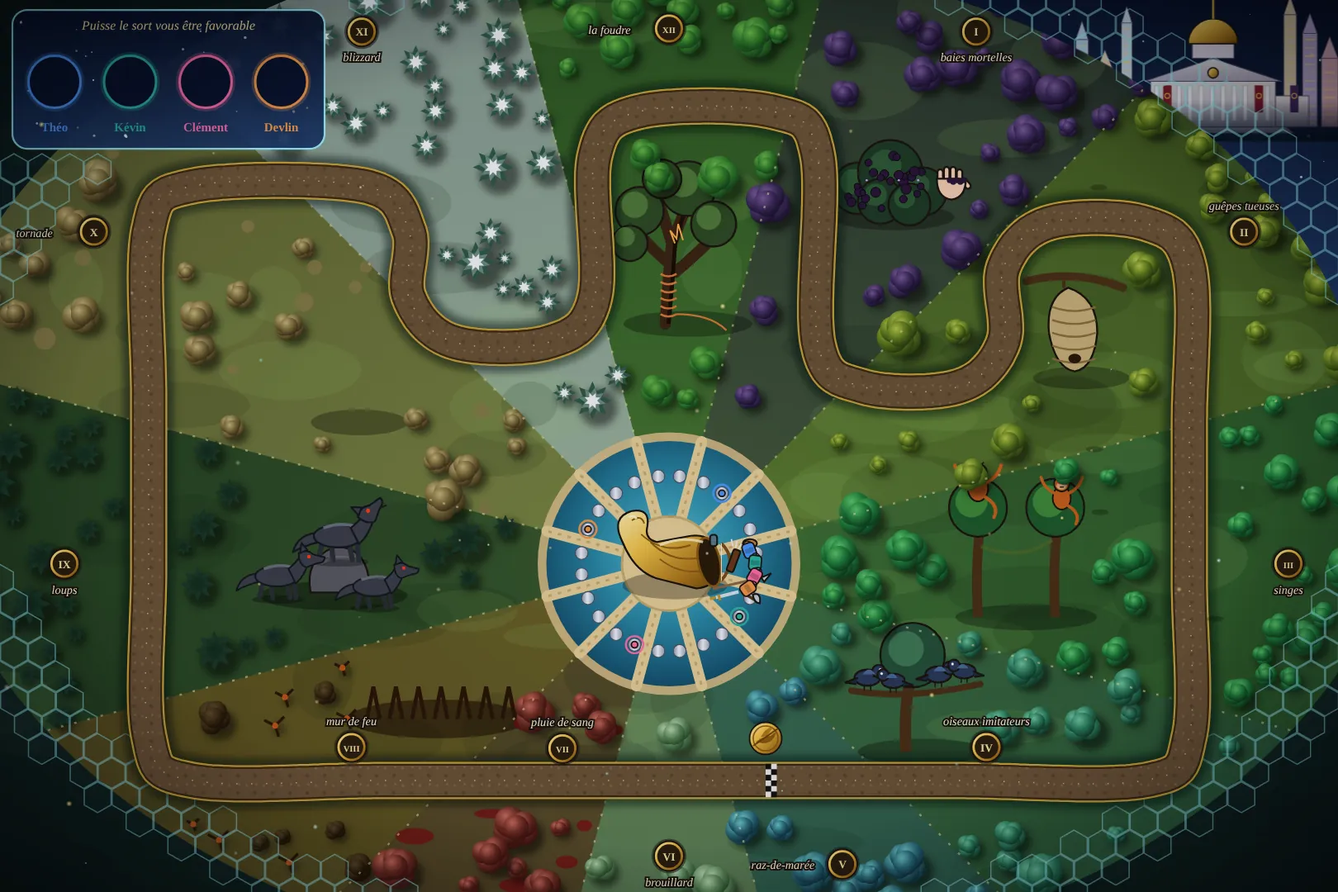
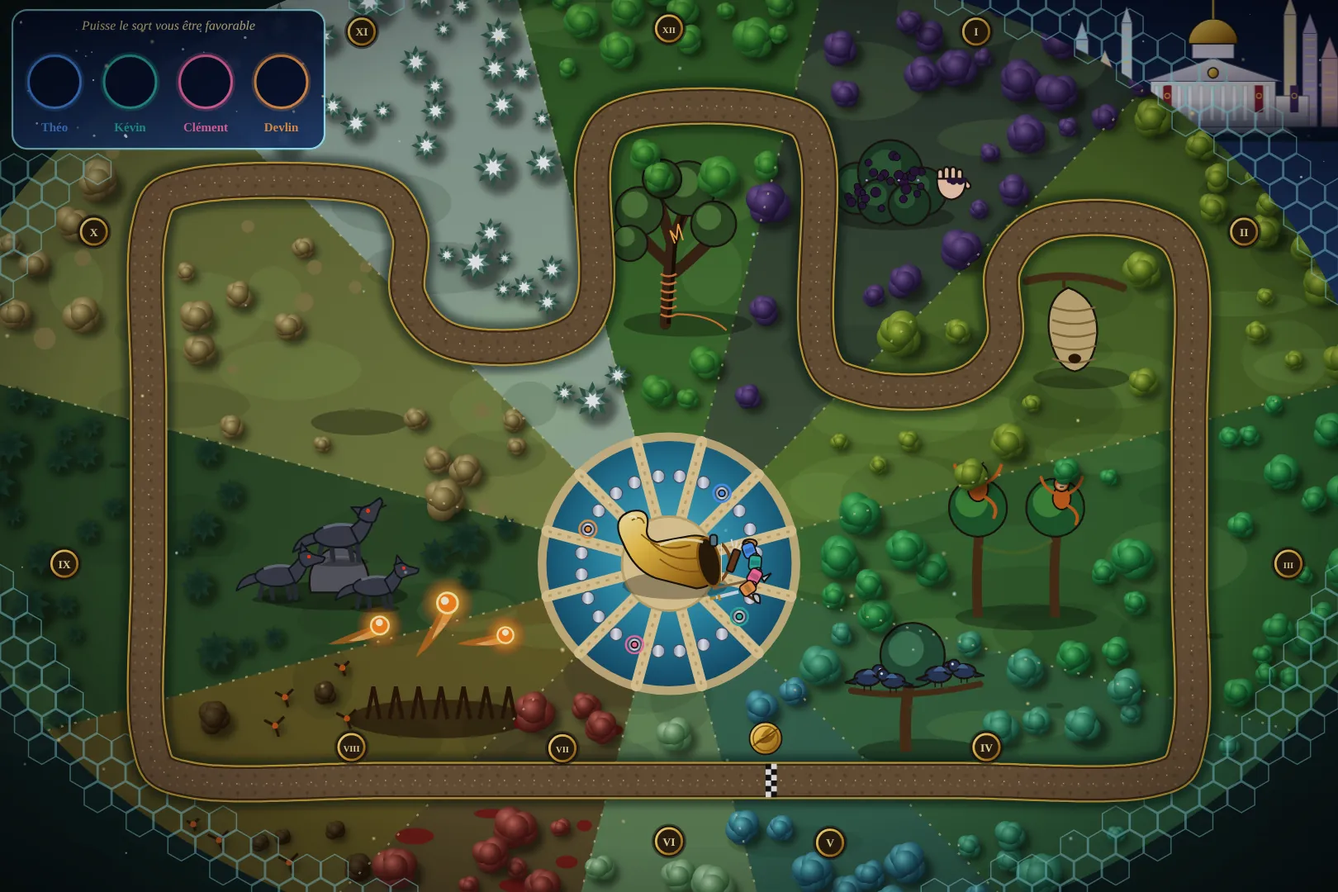
v16.42 : Arène retouchée (anneau du piège actif, noms lisibles, sans grand cartouche)
Claude-Session: https://claude.ai/code/session_01PCnbeGjQAm74wxXQuoCJhH

diff --git a/piste.js b/piste.js
@@ -838,12 +838,13 @@
       <path d="M-2 22l16 -4" stroke="#DCE2EA" stroke-width="2.4"/><path d="M-2 22l-4 1M0 20l1 4" stroke="#C9962A" stroke-width="2"/>
       <ellipse cx="22" cy="-16" rx="5" ry="3" fill="#C98A3A" ${INK}/><rect x="-6" y="-22" width="5" height="8" rx="2" fill="#5A7A8A" ${INK}/></g>`);
     COULEURS_J.forEach((c, k) => { const t = -.6 + k * .42, x = cx + 40 + Math.cos(t) * 30, y = cy + 4 + Math.sin(t) * 26; s.push(`${G(x, y, 1, k * 25 - 20)}<rect x="-5" y="-6" width="10" height="12" rx="3" fill="${c}" ${INK}/><rect x="-3.5" y="-2" width="7" height="4" rx="1" fill="#000" opacity=".2"/><path d="M-3 -6q3 -4 6 0" stroke="#1A1410" fill="none"/></g>`); });
-    a.push(`<circle cx="${cx + 24}" cy="${cy - 2}" r="10" fill="#FFF2B8" opacity=".0">${an(`<animate attributeName="opacity" values="0;.5;0" dur="3s" repeatCount="indefinite"/>`)}</circle>`);
+    a.push(`<circle cx="${cx + 24}" cy="${cy - 2}" r="10" fill="#FFF2B8" opacity="${K.anime ? 0 : .22}">${an(`<animate attributeName="opacity" values="0;.5;0" dur="3s" repeatCount="indefinite"/>`)}</circle>`);   // reflet doré de la Corne (animé, demandé par Théo)
     // ---- 3. les scènes de pièges (une par heure)
-    const scenes = {};
+    const scenes = {}, inter = (A, B) => A[0] < B[2] && A[2] > B[0] && A[1] < B[3] && A[3] > B[1]; let FEU = null, ECL = null;
+    s.push(`<radialGradient id="hg-feu"><stop offset="0" stop-color="#FFF6C0" stop-opacity=".95"/><stop offset=".35" stop-color="#FFB02A" stop-opacity=".75"/><stop offset="1" stop-color="#FF4A1E" stop-opacity="0"/></radialGradient>`);
     // XII · l'arbre frappé par la foudre
     scenes[0] = place(0, 46 * SC, 150, 330);
-    if (scenes[0]) { const [x, y] = scenes[0]; ouvre(x, y); s.push(`${G(x, y, 1)}<ellipse cx="6" cy="36" rx="40" ry="8" fill="#000" opacity=".3"/><path d="M-8 36Q-6 4 -4 -14L-12 -40M-4 -14L8 -44M-2 4Q10 -6 22 -18M-6 -2Q-16 -10 -26 -22" stroke="#3A2414" stroke-width="7" fill="none" stroke-linecap="round"/><path d="M-6 36Q-3 6 -2 -14L6 -40" stroke="#1A0E06" stroke-width="2.5" fill="none"/>
+    if (scenes[0]) { const [x, y] = scenes[0]; ECL = [x - 42, y - 212, x + 38, y - 14]; ouvre(x, y); s.push(`${G(x, y, 1)}<ellipse cx="6" cy="36" rx="40" ry="8" fill="#000" opacity=".3"/><path d="M-8 36Q-6 4 -4 -14L-12 -40M-4 -14L8 -44M-2 4Q10 -6 22 -18M-6 -2Q-16 -10 -26 -22" stroke="#3A2414" stroke-width="7" fill="none" stroke-linecap="round"/><path d="M-6 36Q-3 6 -2 -14L6 -40" stroke="#1A0E06" stroke-width="2.5" fill="none"/>
       ${[[-24, -34, 15], [6, -48, 17], [22, -26, 14], [-10, -54, 12], [-30, -14, 11]].map(([u, v, R]) => `<circle cx="${u}" cy="${v}" r="${R}" fill="#2E4A24" ${INK}/><circle cx="${u - 3}" cy="${v - 4}" r="${R * .55}" fill="#4E7A3A"/>`).join("")}
       ${[0, 1, 2, 3, 4, 5].map(q => `<path d="M-11 ${30 - q * 5}q5 3 10 0" stroke="#D87A3A" stroke-width="1.3" fill="none"/>`).join("")}<path d="M-1 30Q20 30 30 40" stroke="#D87A3A" stroke-width="1.2" fill="none"/><path d="M-2 -14l-3 -8l4 5l1 -9l3 10" stroke="#FFB347" stroke-width="1" fill="none"/></g>`);
       a.push(`<g opacity="${K.anime ? ".0" : "1"}">${act(0, 0, 1)}${G(x, y, 1)}<path d="M-30 -160L-8 -110L-22 -104L4 -40L-2 -86L12 -92Z" fill="#F4FAFF" stroke="#9AD8FF" stroke-width="2"/><circle cx="0" cy="-40" r="26" fill="#BFE8FF" opacity=".35"/></g></g>`);
@@ -880,10 +881,11 @@
       ferme(); bulle(x - 6, y - 40 * SC, "Un… deux… trois !", 8, -4); }
     // VIII · le mur de feu et les boules de feu
     scenes[8] = place(8, 46 * SC, 120, 420);
-    if (scenes[8]) { const [x, y] = scenes[8]; ouvre(x, y); s.push(`${G(x, y, 1)}<ellipse cx="0" cy="14" rx="56" ry="12" fill="#1A0A04" opacity=".55"/>${Array.from({ length: 7 }, (_, q) => `<path d="M${-44 + q * 14} 14L${-40 + q * 14} -6L${-36 + q * 14} 14" stroke="#2A1408" stroke-width="2.4" fill="none"/>`).join("")}</g>`);
+    if (scenes[8]) { const [x, y] = scenes[8]; FEU = [x - 74, y - 84, x + 74, y + 24]; ouvre(x, y);
+      [[-36, -44, 1, 30], [6, -58, 1.15, -10], [42, -38, .9, 40]].forEach(([u, v, sc, rot]) => s.push(`${G(x + u, y + v, sc, rot)}<path d="M-4 3Q-14 14 -22 26Q-10 20 2 6Z" fill="#FF7A1E" opacity=".55"/><path d="M-2 4Q-8 12 -12 18Q-4 14 2 6Z" fill="#FFD27A" opacity=".7"/><circle r="15" fill="url(#hg-feu)"/><circle r="5.5" fill="#FF8A1E" stroke="#FFF2B0" stroke-width="1.3"/><circle cx="-1.2" cy="-1.4" r="2.2" fill="#FFF8DA"/></g>`)); s.push(`${G(x, y, 1)}<ellipse cx="0" cy="14" rx="56" ry="12" fill="#1A0A04" opacity=".55"/>${Array.from({ length: 7 }, (_, q) => `<path d="M${-44 + q * 14} 14L${-40 + q * 14} -6L${-36 + q * 14} 14" stroke="#2A1408" stroke-width="2.4" fill="none"/>`).join("")}</g>`);
       const flamme = (u, v, h, q) => (r(), `<g transform="translate(${f(u)} ${f(v)})"><g transform="scale(${q % 2 ? "1 1.08" : ".95 .96"})"><path d="M-7 0Q-9 ${f(-h * .5)} 0 ${f(-h)}Q9 ${f(-h * .5)} 7 0Z" fill="#E8471E"/><path d="M-4 0Q-5 ${f(-h * .4)} 0 ${f(-h * .7)}Q5 ${f(-h * .4)} 4 0Z" fill="#FFB12A"/><path d="M-2 0Q-2 ${f(-h * .2)} 0 ${f(-h * .4)}Q2 ${f(-h * .2)} 2 0Z" fill="#FFF2B0"/></g></g>`);
       a.push(`<g opacity="${K.anime ? ".7" : "1"}">${act(8, .7, 1)}<g transform="translate(0 ${f(y + 12)})"><g>${an(`<animateTransform attributeName="transform" type="scale" values="1 1;1.03 1.16;.98 .9;1 1" dur=".9s" repeatCount="indefinite"/>`)}<g transform="translate(0 ${f(-y - 12)})">${Array.from({ length: 9 }, (_, q) => flamme(x - 48 + q * 12, y + 12 + Math.sin(q) * 3, 22 + r() * 18, q)).join("")}</g></g></g></g>`);
-      for (let q = 0; q < 2; q++) a.push(`<g>${an(`<animateTransform attributeName="transform" type="translate" values="${f(-60 + q * 20)} 40;${f(20 + q * 10)} -40;${f(80 + q * 10)} 30" dur="${(2.4 + q * .5).toFixed(1)}s" begin="${q * .8}s" repeatCount="indefinite"/>`)}<circle cx="${f(x)}" cy="${f(y - 10)}" r="9" fill="#FF6A1E" opacity=".3"/><circle cx="${f(x)}" cy="${f(y - 10)}" r="5" fill="#FF8A1E" stroke="#FFF2B0" stroke-width="1.2"/><circle cx="${f(x - 1)}" cy="${f(y - 11)}" r="2" fill="#FFF6D0"/></g>`); ferme(); }
+      for (let q = 0; q < 1; q++) a.push(`<g>${an(`<animateTransform attributeName="transform" type="translate" values="${f(-60 + q * 20)} 40;${f(20 + q * 10)} -40;${f(80 + q * 10)} 30" dur="${(2.4 + q * .5).toFixed(1)}s" begin="${q * .8}s" repeatCount="indefinite"/>`)}<circle cx="${f(x)}" cy="${f(y - 10)}" r="9" fill="#FF6A1E" opacity=".3"/><circle cx="${f(x)}" cy="${f(y - 10)}" r="5" fill="#FF8A1E" stroke="#FFF2B0" stroke-width="1.2"/><circle cx="${f(x - 1)}" cy="${f(y - 11)}" r="2" fill="#FFF6D0"/></g>`); ferme(); }
     // IX · les loups mutants aux yeux qui brillent
     scenes[9] = place(9, 44 * SC, 130, 420);
     if (scenes[9]) { const [x, y] = scenes[9]; ouvre(x, y); const loup = (u, v, sc, hurle) => { const LP = `fill="#3A3E4A" stroke="#14161C" stroke-width="1.1" stroke-linejoin="round"`; return `${G(u, v, sc)}<ellipse cx="0" cy="7" rx="18" ry="3" fill="#000" opacity=".3"/>${[[-11, -4, -13], [-5, -3, -4], [6, -4, 8], [11, -5, 12]].map(([p, q, w]) => `<path d="M${p} ${q}L${w} 6" stroke="#2A2E38" stroke-width="3.2" stroke-linecap="round"/>`).join("")}<path d="M-14 -11Q-26 -10 -29 1Q-22 -3 -14 -5Z" ${LP}/><ellipse cx="-1" cy="-9" rx="15" ry="7" ${LP}/><path d="M-10 -14Q0 -18 10 -15" stroke="#6A7080" stroke-width="2" fill="none"/><path d="M7 -14Q13 -19 15 -23L21 -19Q18 -9 12 -4Z" ${LP}/><g transform="rotate(${hurle ? -50 : 0} 17 -20)"><path d="M14 -25Q20 -28 24 -24L32 -22Q32 -18 27 -18L19 -15Q14 -17 14 -25Z" ${LP}/><path d="M15 -25l1 -7l4 5z" ${LP}/>${hurle ? `<path d="M27 -18l4 2" stroke="#14161C" stroke-width="1"/>` : ""}<circle cx="21" cy="-22.5" r="1.3" fill="#FF3A1E"/></g></g>`; };
@@ -903,7 +905,7 @@
     zone(7, RL + 30, 12, (x, y) => K.dT(x, y) > 26).forEach(([x, y]) => s.push(`<ellipse cx="${f(x)}" cy="${f(y)}" rx="${f(6 + r() * 10)}" ry="${f(3 + r() * 4)}" fill="#7A0A12" opacity=".7"/>`));
     a.push(`<g clip-path="url(#hg-z7)"><g opacity="${K.anime ? ".45" : "1"}">${act(7, .45, 1)}${(() => { const g = [[], []]; zone(7, RL + 20, 70).forEach(([x, y], q) => { r(); r(); g[q % 2].push(`M${f(x)} ${f(y - (q % 2 ? 0 : 30))}l-2 9`); }); return g.map((d, q) => `<path d="${d.join("")}" stroke="#C8102E" stroke-width="1.5" stroke-linecap="round">${an(`<animateTransform attributeName="transform" type="translate" values="0 -30;-6 30" dur="${q ? ".8" : "1.1"}s" begin="-${q * .4}s" repeatCount="indefinite"/>`)}</path>`).join(""); })()}</g></g>`);
     // V · la vague géante qui déferle depuis le lac
-    a.push(`<g clip-path="url(#hg-z5)"><g opacity="${K.anime ? ".35" : "1"}">${act(5, .35, 1)}${[0, 1].map(q => `<g>${an(`<animateTransform attributeName="transform" type="translate" values="0 0;${f(Math.cos(ang(5)) * 240)} ${f(Math.sin(ang(5)) * 240)}" dur="6s" begin="${q * 3}s" repeatCount="indefinite"/><animate attributeName="opacity" values="1;1;0" dur="6s" begin="${q * 3}s" repeatCount="indefinite"/>`)}<path d="M${f(cx + Math.cos(ang(5) - .5) * (RL + 4))} ${f(cy + Math.sin(ang(5) - .5) * (RL + 4))}A${f(RL + 4)} ${f(RL + 4)} 0 0 1 ${f(cx + Math.cos(ang(5) + .5) * (RL + 4))} ${f(cy + Math.sin(ang(5) + .5) * (RL + 4))}" fill="none" stroke="#BFF0FF" stroke-width="7" stroke-linecap="round"/><path d="M${f(cx + Math.cos(ang(5) - .45) * (RL - 4))} ${f(cy + Math.sin(ang(5) - .45) * (RL - 4))}A${f(RL - 4)} ${f(RL - 4)} 0 0 1 ${f(cx + Math.cos(ang(5) + .45) * (RL - 4))} ${f(cy + Math.sin(ang(5) + .45) * (RL - 4))}" fill="none" stroke="#2A8AA8" stroke-width="10" opacity=".7"/></g>`).join("")}</g></g>`);
+    a.push(`<g clip-path="url(#hg-z5)"><g opacity="${K.anime ? ".35" : "1"}">${act(5, .35, 1)}${[0].map(q => `<g>${an(`<animateTransform attributeName="transform" type="translate" values="0 0;${f(Math.cos(ang(5)) * 240)} ${f(Math.sin(ang(5)) * 240)}" dur="6s" begin="${q * 3}s" repeatCount="indefinite"/><animate attributeName="opacity" values="1;1;0" dur="6s" begin="${q * 3}s" repeatCount="indefinite"/>`)}<path d="M${f(cx + Math.cos(ang(5) - .5) * (RL + 4))} ${f(cy + Math.sin(ang(5) - .5) * (RL + 4))}A${f(RL + 4)} ${f(RL + 4)} 0 0 1 ${f(cx + Math.cos(ang(5) + .5) * (RL + 4))} ${f(cy + Math.sin(ang(5) + .5) * (RL + 4))}" fill="none" stroke="#BFF0FF" stroke-width="7" stroke-linecap="round"/><path d="M${f(cx + Math.cos(ang(5) - .45) * (RL - 4))} ${f(cy + Math.sin(ang(5) - .45) * (RL - 4))}A${f(RL - 4)} ${f(RL - 4)} 0 0 1 ${f(cx + Math.cos(ang(5) + .45) * (RL - 4))} ${f(cy + Math.sin(ang(5) + .45) * (RL - 4))}" fill="none" stroke="#2A8AA8" stroke-width="10" opacity=".7"/></g>`).join("")}</g></g>`);
     // VI · le brouillard toxique (et ses cloques)
     a.push(`<radialGradient id="hg-brume" r="50%"><stop offset="0" stop-color="#E8FFD8" stop-opacity=".85"/><stop offset=".6" stop-color="#B8E8A0" stop-opacity=".4"/><stop offset="1" stop-color="#B8E8A0" stop-opacity="0"/></radialGradient>`);
     a.push(`<g clip-path="url(#hg-z6)"><g opacity="${K.anime ? ".5" : ".75"}">${act(6, .5, .75)}${(() => { const g = [[], []]; zone(6, RL - 10, 16).forEach(([x, y], q) => { g[q % 2].push(`<ellipse cx="${f(x)}" cy="${f(y)}" rx="${f(40 + r() * 40)}" ry="${f(18 + r() * 14)}" fill="url(#hg-brume)"/>`); r(); r(); r(); }); return g.map((e, q) => `<g>${an(`<animateTransform attributeName="transform" type="translate" values="0 0;${q ? 34 : -26} ${q ? 4 : -3};0 0" dur="${q ? 9 : 11}s" repeatCount="indefinite"/>`)}${e.join("")}</g>`).join(""); })()}</g></g>`);
@@ -930,7 +932,7 @@
       s.push(`<linearGradient id="hg-brumeC" x1="0" y1="0" x2="0" y2="1"><stop offset="0" stop-color="#06101E" stop-opacity="0"/><stop offset="1" stop-color="#06101E" stop-opacity=".95"/></linearGradient>`);
       const hors = `M700 -2H${W + 2}V260H700Z M${EX - ERX * .94} ${EY}a${ERX * .94} ${ERY * .94} 0 1 0 ${ERX * 1.88} 0a${ERX * .94} ${ERY * .94} 0 1 0 ${-ERX * 1.88} 0Z`;
       s.push(`<clipPath id="hg-hors"><path d="${hors}" clip-rule="evenodd"/></clipPath><g clip-path="url(#hg-hors)"><rect x="700" y="0" width="${W - 700}" height="260" fill="url(#hg-ciel)"/>${Array.from({ length: 30 }, () => `<circle cx="${f(720 + r() * 360)}" cy="${f(r() * 200)}" r="${f(.4 + r() * .8)}" fill="#FFF" opacity="${(.3 + r() * .6).toFixed(2)}"/>`).join("")}<g transform="translate(${W} 0) scale(.84) translate(${-W} 0)"><g opacity=".95">${c}</g><rect x="780" y="${by - 26}" width="300" height="40" fill="url(#hg-brumeC)"/></g></g>`);
-      [[981, 34, 0], [917, 38, 1], [1043, 31, 2]].forEach(([u, v, q]) => q < 2 && a.push(`<path d="M${u} ${v}l-26 -150l22 0z" fill="#FFF6D0" opacity=".14">${an(`<animateTransform attributeName="transform" type="rotate" values="-28 ${u} ${v};28 ${u} ${v};-28 ${u} ${v}" dur="${6 + q * 2}s" repeatCount="indefinite"/>`)}</path>`));
+      [[981, 34, 0], [917, 38, 1], [1043, 31, 2]].forEach(([u, v, q]) => q === 0 && a.push(`<path d="M${u} ${v}l-26 -150l22 0z" fill="#FFF6D0" opacity=".14">${an(`<animateTransform attributeName="transform" type="rotate" values="-28 ${u} ${v};28 ${u} ${v};-28 ${u} ${v}" dur="${6 + q * 2}s" repeatCount="indefinite"/>`)}</path>`));
       [[905, 26, "#FFD27A", 0], [1012, 16, "#FF8FC8", 1.2], [1058, 40, "#9AF4FF", 2.3]].forEach(([u, v, col, b]) => b === 1.2 && a.push(`<g transform="translate(${u} ${v})"><g opacity="${K.anime ? 0 : .8}">${an(`<animate attributeName="opacity" values="1;0;0" keyTimes="0;.4;1" dur="3.6s" begin="${b}s" repeatCount="indefinite"/><animateTransform attributeName="transform" type="scale" values=".1;1;1" keyTimes="0;.4;1" dur="3.6s" begin="${b}s" repeatCount="indefinite"/>`)}${Array.from({ length: 12 }, (_, q) => `<path d="M${f(Math.cos(q * PI / 6) * 5)} ${f(Math.sin(q * PI / 6) * 5)}L${f(Math.cos(q * PI / 6) * 16)} ${f(Math.sin(q * PI / 6) * 16)}" stroke="${col}" stroke-width="1.6" stroke-linecap="round"/>`).join("")}</g></g>`));
       // l'aéroglisseur du Capitole qui passe
       a.push(`<g${K.anime ? "" : ` transform="translate(-140 0)"`}>${an(`<animateTransform attributeName="transform" type="translate" values="40 0;-300 40" dur="18s" repeatCount="indefinite"/>`)}<path d="M1050 18l26 -6l14 6l-14 5z" fill="#3A3E52" stroke="#9AA4C6" stroke-width=".8"/><circle cx="1062" cy="18" r="1.2" fill="#FF5A5A"/></g>`); }
@@ -944,13 +946,33 @@
     s.push(`<path d="${K.piste}" fill="none" stroke="#F7E3A0" stroke-width="1" stroke-dasharray="1 11" opacity=".7"/>`);
     K.depart();
     // ---- 8. le cadran : chiffres romains au bord, chacun s'allume quand son piège se déclenche
-    for (let k = 0; k < 12; k++) { let p = null; for (let d = 900; d > RL + 40; d -= 4) { const x = cx + Math.cos(ang(k)) * d, y = cy + Math.sin(ang(k)) * d; if (x > 20 && x < W - 20 && y > 20 && y < H - 20 && dome(x, y) < .9 && K.dT(x, y) > 26 && !K.occ.some(o => Math.hypot(o[0] - x, o[1] - y) < o[2] * .6 + 10)) { p = [x, y]; break; } }
-      if (!p) continue; const [x, y] = p; s.push(`<circle cx="${f(x)}" cy="${f(y)}" r="14" fill="#1A1410" opacity=".55"/><circle cx="${f(x)}" cy="${f(y)}" r="12" fill="url(#hg-or)" ${INK}/><circle cx="${f(x)}" cy="${f(y)}" r="9.5" fill="#2A1E10"/><text x="${f(x)}" y="${f(y + 3.4)}" text-anchor="middle" font-family="Georgia, serif" font-weight="bold" font-size="${RO[k].length > 2 ? 7 : 9}" fill="#F7E3A0">${RO[k]}</text>`);
-      const lw = NOM[k].length * 2.7 + 4, note = (u, v) => u < lw || u > W - lw || v < 14 || v > H - 4 ? -99 : Math.min(K.dT(u, v - 3), 50) - (K.occ.some(o => o[2] > 25 && o[2] < 80 && Math.hypot(o[0] - u, o[1] - v) < o[2]) ? 30 : 0);
-      const [tx, ty] = [[0, 24], [0, -18], [-48, 4], [48, 4]].map(([u, v]) => [x + u, y + v]).sort((p, q) => note(q[0], q[1]) - note(p[0], p[1]))[0]; s.push(`<text x="${f(tx)}" y="${f(ty)}" text-anchor="middle" font-family="Georgia, serif" font-style="italic" font-size="9.5" fill="#FFF6D8" stroke="#1A1410" stroke-width="2.6" paint-order="stroke">${NOM[k]}</text>`);
+    const MED = [], LAB = [], LW = []; for (let k = 0; k < 12; k++) { let p = null; for (let d = 900; d > RL + 40; d -= 4) { const x = cx + Math.cos(ang(k)) * d, y = cy + Math.sin(ang(k)) * d; if (x > 36 && x < W - 36 && y > 20 && y < H - 38 && !(x < 290 && y < 142) && dome(x, y) < .9 && K.dT(x, y) > 26 && !K.occ.some(o => Math.hypot(o[0] - x, o[1] - y) < o[2] * .6 + 10)) { p = [x, y]; break; } }
+      if (!p) continue; const [x, y] = p; MED[k] = p; s.push(`<circle cx="${f(x)}" cy="${f(y)}" r="14" fill="#1A1410" opacity=".55"/><circle cx="${f(x)}" cy="${f(y)}" r="12" fill="url(#hg-or)" ${INK}/><circle cx="${f(x)}" cy="${f(y)}" r="9.5" fill="#2A1E10"/><text x="${f(x)}" y="${f(y + 3.4)}" text-anchor="middle" font-family="Georgia, serif" font-weight="bold" font-size="${RO[k].length > 2 ? 7 : 9}" fill="#F7E3A0">${RO[k]}</text>`);
+      const lw = NOM[k].length * 2.45 + 6, note = (u, v) => { if (u < lw + 6 || u > W - lw - 6 || v < 16 || v > H - 24) return -99; const B = [u - lw, v - 9, u + lw, v + 3];
+        return Math.min(K.dT(u, v - 3), 50) - (K.occ.some(o => o[2] > 25 && o[2] < 80 && Math.hypot(o[0] - u, o[1] - v) < o[2]) ? 30 : 0) - (FEU && inter(B, FEU) ? 70 : 0) - (ECL && inter(B, ECL) ? 70 : 0) - (Math.max(dome(B[0], v), dome(B[2], v)) > .9 ? 45 : 0); };
+      const [tx, ty] = [[0, 24], [0, -18], [-lw - 18, 4], [lw + 18, 4], [-lw - 18, -14], [lw + 18, -14]].map(([u, v]) => [x + u, y + v]).sort((p, q) => note(q[0], q[1]) - note(p[0], p[1]))[0]; LAB[k] = [tx, ty]; LW[k] = lw;
+      if (k === 6) a.push(`<circle cx="${f(x)}" cy="${f(y)}" r="12" fill="url(#hg-or)" ${INK}/><circle cx="${f(x)}" cy="${f(y)}" r="9.5" fill="#2A1E10"/><text x="${f(x)}" y="${f(y + 3.4)}" text-anchor="middle" font-family="Georgia, serif" font-weight="bold" font-size="9" fill="#F7E3A0">${RO[k]}</text>`);   // VI reste net par-dessus le brouillard
       a.push(`<circle cx="${f(x)}" cy="${f(y)}" r="16" fill="none" stroke="#FFF2B8" stroke-width="2.5" opacity="0">${act(k, 0, 1)}</circle>`); }
     // l'aiguille : un faisceau doré qui fait le tour du cadran
     a.push(`<clipPath id="hg-domeA">${ell}</clipPath><g clip-path="url(#hg-domeA)"><g>${an(`<animateTransform attributeName="transform" type="rotate" from="0 ${cx} ${cy}" to="360 ${cx} ${cy}" dur="${DUR}s" repeatCount="indefinite"/>`)}<path d="${coin(0, 1300)}" fill="#FFF2B8" opacity=".09"/><path d="M${f(cx + Math.cos(ang(0) + PI / 12) * 30)} ${f(cy + Math.sin(ang(0) + PI / 12) * 30)}L${f(cx + Math.cos(ang(0) + PI / 12) * 1300)} ${f(cy + Math.sin(ang(0) + PI / 12) * 1300)}" stroke="#FFE08A" stroke-width="2" opacity=".5"/></g></g>`);
+    // l'heure qui sonne : un anneau doré pulse sur le médaillon actif (suit l'aiguille) ; pas de grand cartouche (Théo)
+    { const MP = Array.from({ length: 12 }, (_, k) => MED[k] || [cx + Math.cos(ang(k)) * (RL + 120), cy + Math.sin(ang(k)) * (RL + 120)]);
+      const LG = NOM.map((n, k) => (RO[k] + " · " + n).length * 13.6 + 40), CW = Math.max(...LG), CH = 48, PASY = 64;
+      const dCerc = (B, X, Y, R) => Math.hypot(X - Math.max(B[0], Math.min(B[2], X)), Y - Math.max(B[1], Math.min(B[3], Y))) < R;
+      const CP = MP.map(([x, y], k) => { let best = [x, y + 40], bs = 1e9;
+        for (let u = x - 240; u <= x + 240; u += 6) for (let v = y - 150; v <= y + 150; v += 6) { const B = [u - LG[k] / 2, v - CH / 2, u + LG[k] / 2, v + CH / 2];
+          if (B[0] < 6 || B[2] > W - 6 || B[1] < 4 || B[3] > H - 6 || inter(B, [0, 0, 276, 132]) || dCerc(B, x, y, 27) || dCerc(B, cx, cy, RL + 12)) continue;
+          let sc = Math.hypot(u - x, v - y) * .6;
+          MED.forEach((m, j) => { if (m && j !== k && dCerc(B, m[0], m[1], 18)) sc += 400; });
+          LAB.forEach((l, j) => { if (l && j !== k && inter(B, [l[0] - LW[j] - 2, l[1] - 11, l[0] + LW[j] + 2, l[1] + 5])) sc += 260; });
+          if (FEU && inter(B, FEU)) sc += 300; if (ECL && inter(B, ECL)) sc += 300; if (inter(B, [760, 0, W, 128])) sc += 120;
+          K.occ.forEach(o => { if (o[2] > 25 && o[2] < 80 && dCerc(B, o[0], o[1], o[2] * .75)) sc += 90; });
+          if (sc < bs) { bs = sc; best = [u, v]; } }
+        return best; });
+      const saut = (L, fig) => K.anime ? `<animateTransform attributeName="transform" type="translate" values="${L.map(p => f(p[0]) + " " + f(p[1])).join(";")}" calcMode="discrete" dur="${DUR}s" repeatCount="indefinite"/>` : "";
+      const LP = Array.from({ length: 12 }, (_, k) => LAB[k] || [-999, -999]), HW = Math.max(...LW.filter(Boolean)) + 3;
+      a.push(`<g opacity=".78">${LAB.map((l, k) => l ? `<rect x="${f(l[0] - LW[k])}" y="${f(l[1] - 9)}" width="${f(LW[k] * 2)}" height="12" rx="6" fill="#F6E9C4" opacity=".6"/><text x="${f(l[0])}" y="${f(l[1] + .5)}" text-anchor="middle" font-family="Georgia, serif" font-style="italic" font-weight="bold" font-size="9" fill="#2A1A0A">${NOM[k]}</text>` : "").join("")}</g>`);
+      a.push(`<g transform="translate(${f(MP[0][0])} ${f(MP[0][1])})">${saut(MP)}<circle r="16" fill="none" stroke="#FFE08A" stroke-width="3">${an(`<animate attributeName="r" values="15;24;15" dur="1.5s" repeatCount="indefinite"/>`)}</circle><circle r="16" fill="none" stroke="#FFF6D0" stroke-width="1.2" opacity=".9"/></g>`); }
     // ---- 10. le ciel de l'arène (coin haut gauche) : les visages des 4 pilotes projetés, la devise
     const PORTR = [];
     { const px = 10, py = 8, pw = 252, ph = 112; s.push(`<rect x="${px}" y="${py}" width="${pw}" height="${ph}" rx="12" fill="url(#hg-ciel)" stroke="#9AF4FF" stroke-width="1.5" opacity=".95"/>`);
@@ -962,15 +984,15 @@
         s.push(`<text x="${x}" y="${py + 98}" text-anchor="middle" font-family="Georgia, serif" font-weight="bold" font-size="10" fill="${c}">${NOMS[k]}</text>`);
       });
       if (K.anime) a.push(`<g>${`<animateTransform attributeName="transform" type="translate" values="${PORTR.map(p => p.x + " " + p.y).join(";")}" calcMode="discrete" dur="8s" repeatCount="indefinite"/>`}<circle r="25" fill="none" stroke="#FFF2B8" stroke-width="2" opacity="0"><animate attributeName="opacity" values="0;1;0;0" keyTimes="0;.2;.8;1" dur="2s" repeatCount="indefinite"/></circle></g>`);
-      a.push(`<rect x="${px + 2}" y="${py}" width="${pw - 4}" height="3" fill="#BFF8FF" opacity=".25">${an(`<animate attributeName="y" values="${py};${py + ph - 3}" dur="3.5s" repeatCount="indefinite"/>`)}</rect>`); }
+    }
     // ---- 11. les parachutes argentés des sponsors (cadeaux aux rubans des 4)
-    for (let k = 0; k < 4; k++) { let p = null; for (let e = 0; e < 3000 && !p; e++) { const x = 60 + r() * (W - 120), y = 120 + r() * (H - 200); if (dome(x, y) < .85 && K.libre(x, y, 14, 4)) p = [x, y]; } if (!p) continue;
+    for (let k = 0; k < 3; k++) { let p = null; for (let e = 0; e < 3000 && !p; e++) { const x = 60 + r() * (W - 120), y = 170 + r() * (H - 250); if (dome(x, y) < .85 && [3, 4, 9, 10][k] === sect(x, y) && K.libre(x, y, 14, 4) && !LAB.some(l => l && Math.hypot(l[0] - x, l[1] - y + 20) < 60)) p = [x, y]; } if (!p) continue;
       const [x, y] = p, du = (11 + k * 2.3).toFixed(1), de = (-k * 3.1).toFixed(1);
       s.push(`<ellipse cx="${f(x)}" cy="${f(y + 4)}" rx="7" ry="2.4" fill="#000" opacity=".25"/>`);
-      a.push(`<g${K.anime ? "" : ` transform="translate(0 -${30 + k * 14})"`}>${an(`<animateTransform attributeName="transform" type="translate" values="0 -${f(y + 40)};8 -${f(y * .5)};-4 -20;0 0;0 0" keyTimes="0;.4;.65;.75;1" dur="${du}s" begin="${de}s" repeatCount="indefinite"/><animate attributeName="opacity" values="1;1;1;0;0" keyTimes="0;.7;.8;.9;1" dur="${du}s" begin="${de}s" repeatCount="indefinite"/>`)}<path d="M${f(x - 13)} ${f(y - 20)}Q${f(x)} ${f(y - 38)} ${f(x + 13)} ${f(y - 20)}Q${f(x + 6)} ${f(y - 24)} ${f(x)} ${f(y - 20)}Q${f(x - 6)} ${f(y - 24)} ${f(x - 13)} ${f(y - 20)}Z" fill="url(#hg-arg)" stroke="#5A6476" stroke-width=".8"/><path d="M${f(x - 13)} ${f(y - 20)}L${f(x - 3)} ${f(y - 3)}M${f(x + 13)} ${f(y - 20)}L${f(x + 3)} ${f(y - 3)}M${f(x)} ${f(y - 20)}V${f(y - 3)}" stroke="#C8D0DA" stroke-width=".6"/><rect x="${f(x - 4.5)}" y="${f(y - 4)}" width="9" height="8" rx="1.2" fill="#D8DEE8" stroke="#5A6476" stroke-width=".8"/><path d="M${f(x)} ${f(y - 4)}v8M${f(x - 4.5)} ${f(y)}h9" stroke="${COULEURS_J[k]}" stroke-width="1.6"/></g>`); }
+      a.push(`<g${K.anime ? "" : ` transform="translate(0 -${30 + k * 14})"`}>${an(`<animateTransform attributeName="transform" type="translate" values="0 -150;8 -80;-4 -20;0 0;0 0" keyTimes="0;.4;.65;.75;1" dur="${du}s" begin="${de}s" repeatCount="indefinite"/><animate attributeName="opacity" values="0;1;1;0;0" keyTimes="0;.08;.75;.88;1" dur="${du}s" begin="${de}s" repeatCount="indefinite"/>`)}<path d="M${f(x - 13)} ${f(y - 20)}Q${f(x)} ${f(y - 38)} ${f(x + 13)} ${f(y - 20)}Q${f(x + 6)} ${f(y - 24)} ${f(x)} ${f(y - 20)}Q${f(x - 6)} ${f(y - 24)} ${f(x - 13)} ${f(y - 20)}Z" fill="url(#hg-arg)" stroke="#5A6476" stroke-width=".8"/><path d="M${f(x - 13)} ${f(y - 20)}L${f(x - 3)} ${f(y - 3)}M${f(x + 13)} ${f(y - 20)}L${f(x + 3)} ${f(y - 3)}M${f(x)} ${f(y - 20)}V${f(y - 3)}" stroke="#C8D0DA" stroke-width=".6"/><rect x="${f(x - 4.5)}" y="${f(y - 4)}" width="9" height="8" rx="1.2" fill="#D8DEE8" stroke="#5A6476" stroke-width=".8"/><path d="M${f(x)} ${f(y - 4)}v8M${f(x - 4.5)} ${f(y)}h9" stroke="${COULEURS_J[k]}" stroke-width="1.6"/></g>`); }
     // ---- 12. le geai moqueur : il fait le tour du lac en sifflant les 4 notes (une par pilote)
     { const R1 = RL + 46, R2 = RL + 30; a.push(`<g${K.anime ? "" : ` transform="translate(${f(cx + R1 * .7)} ${f(cy - R2 * .7)}) rotate(-40)"`}>${an(`<animateMotion dur="16s" repeatCount="indefinite" rotate="auto" path="M${f(cx + R1)} ${f(cy)}A${f(R1)} ${f(R2)} 0 1 0 ${f(cx - R1)} ${f(cy)}A${f(R1)} ${f(R2)} 0 1 0 ${f(cx + R1)} ${f(cy)}"/>`)}<g transform="scale(1.7)"><ellipse rx="8" ry="3.6" fill="#2A2E3A" ${INK}/><circle cx="7" cy="0" r="3.2" fill="#2A2E3A" ${INK}/><path d="M10 0l4 .6l-4 .8z" fill="#1A1410"/><path d="M-7 0l-8 -3l2 3l-2 3z" fill="#1A1E28" ${INK}/><g>${an(`<animateTransform attributeName="transform" type="scale" values="1 1;1 -1;1 1" dur=".5s" repeatCount="indefinite"/>`)}<path d="M-3 0Q-2 -14 4 -15Q4 -6 3 0z" fill="#2A2E3A" ${INK}/><path d="M-1 -6Q0 -12 3 -13" stroke="#FFFFFF" stroke-width="1.6" fill="none"/></g></g></g>`);
-      a.push(`<g>${an(`<animateTransform attributeName="transform" type="translate" values="0 6;0 -6" dur="8s" repeatCount="indefinite"/>`)}${COULEURS_J.map((c, k) => `<text x="${f(cx - 40 + k * 22)}" y="${f(cy - RL - 26 - (k % 2) * 6)}" font-size="18" font-weight="bold" fill="${c}" stroke="#1A1410" stroke-width=".8" text-anchor="middle" opacity="${K.anime ? 0 : 1}">♪${an(`<animate attributeName="opacity" values="0;0;1;1;0;0" keyTimes="0;${(.08 + k * .08).toFixed(2)};${(.12 + k * .08).toFixed(2)};.6;.7;1" dur="8s" repeatCount="indefinite"/>`)}</text>`).join("")}</g>`); }
+      a.push(`<g>${an(`<animateTransform attributeName="transform" type="translate" values="0 6;0 -6" dur="8s" repeatCount="indefinite"/>`)}${COULEURS_J.map((c, k) => `<g transform="translate(${f(cx - 40 + k * 22)} ${f(cy - RL - 22 - (k % 2) * 6)}) rotate(${k % 2 ? 8 : -8})" opacity="${K.anime ? 0 : 1}">${an(`<animate attributeName="opacity" values="0;0;1;1;0;0" keyTimes="0;${(.08 + k * .08).toFixed(2)};${(.12 + k * .08).toFixed(2)};.6;.7;1" dur="8s" repeatCount="indefinite"/>`)}<path d="M3.6 -1V-15Q9 -12 9 -6" stroke="#FFFDF6" stroke-width="4" fill="none" stroke-linecap="round"/><ellipse rx="5" ry="3.6" transform="rotate(-22)" fill="${c}" stroke="#FFFDF6" stroke-width="2.2"/><path d="M3.6 -1V-15Q9 -12 9 -6" stroke="${c}" stroke-width="2" fill="none" stroke-linecap="round"/><ellipse rx="5" ry="3.6" transform="rotate(-22)" fill="${c}" stroke="#1A1410" stroke-width=".8"/></g>`).join("")}</g>`); }
     // la broche au geai (clin d'œil) près du départ
     { const p0 = K.P[0], [nx, ny] = K.nrm(0), x = p0[0] - nx * 34, y = p0[1] - ny * 34; s.push(`${G(x, y, 1)}<circle r="13" fill="url(#hg-or)" ${INK}/><circle r="10" fill="none" stroke="#8A5A14" stroke-width="1"/><path d="M-8 3Q-2 -2 4 -2L9 -6L7 -1Q4 4 -2 4Z" fill="#8A5A14"/><path d="M-4 -1Q0 -9 6 -9Q2 -4 2 -2Z" fill="#B07A1E"/><path d="M-10 6L10 -8" stroke="#6A440E" stroke-width="1.2"/></g>`); }
     // les 4 pilotes sur la piste (petits chars de parade aux couleurs des 4)

diff --git a/img/cartes/cartes.js b/img/cartes/cartes.js
@@ -1,2 +1,2 @@
 /* GÉNÉRÉ par outils-tests/cuire-cartes.js : fonds peints cuits en WebP (clé → empreinte du dessin). */
-self.CARTES_CUITES = {"garage":"zu9mem","foret":"1oxyekm","chateau":"45u4k1","terrier":"sa1uew","anneau":"12tsd87","arene":"vlwnda","etoiles":"1vya25y","dunes":"15rcvl7","envers":"y8dnih","multivers":"107jyrv","chocolat":"tny2ay","titans":"13jsgn4","odyssee":"nymdsn","plateau":"1gvl1os"};
+self.CARTES_CUITES = {"garage":"zu9mem","foret":"1oxyekm","chateau":"45u4k1","terrier":"sa1uew","anneau":"12tsd87","arene":"20x41r","etoiles":"1vya25y","dunes":"15rcvl7","envers":"y8dnih","multivers":"107jyrv","chocolat":"tny2ay","titans":"13jsgn4","odyssee":"nymdsn","plateau":"1gvl1os"};

diff --git a/version.js b/version.js
@@ -3,4 +3,4 @@
    À chaque mise en ligne : changer « app » et « date » ici, rien d'autre.
    Lu par index.html (affiché dans Réglages) et par sw.js (nom du cache hors connexion).
    ============================================================ */
-self.VERSUS_VERSION = { app: "16.41", date: "19 novembre 2026" };
+self.VERSUS_VERSION = { app: "16.42", date: "19 novembre 2026" };

diff --git a/MODE_EMPLOI.md b/MODE_EMPLOI.md
@@ -361,3 +361,4 @@ Légende : ⬜ à faire · 🟡 proposé, attend ton OK · 🔧 en cours · ✅ 
 | 19/11/2026 | jeu | **v16.39 · Garage, Dune et Titans refaits en grandes scènes** : décembre, le garage la nuit de Noël en volume (verrière sur la ville enneigée, sapin dans la grande porte, 4 box avec vos portraits, voiture mystère « 2027 ? » sous les projecteurs, voitures de légende, mécaniciens) ; juillet, le ver géant qui jaillit en arc au-dessus de la piste avec son cavalier, palais des sables face à la citadelle noire, moissonneuse avalée, mur de tempête ; novembre, le titan colossal (plus d'un quart de la carte) agrippé au mur Maria, un titan qui l'enjambe, la brèche, la mer à l'horizon. |
 | 19/11/2026 | jeu | **v16.40 · L'Arène plus fluide** (accord de Théo, sans toucher au dessin) : 340 animations ramenées à 82 (essaims animés en groupe, scintillements cuits dans le fond, un seul anneau sur les portraits) ; bug corrigé : les 4 notes du geai moqueur (une par pilote) ne s'affichaient jamais ; bulles visibles quand les animations sont coupées. |
 | 19/11/2026 | jeu | **v16.41 · Le Multivers retouché** (avant/après validé par Théo) : noms des mondes et titre de la Citadelle lisibles sur téléphone, rhinocéros en armure dans la savane de Wakanda, tourbillon d'étoiles dans le portail de Strange (plus de faux damier), Thanos recadré avec son gant au bras, Wakanda et la planète entières ; seulement 3 répliques en bulles claires (« Inévitable. », « ÉCRASE ! », « Le roi, c'est moi ! »). |
+| 19/11/2026 | jeu | **v16.42 · L'Arène retouchée** (avant/après vu par Théo, sans grand cartouche, reflet doré gardé) : un anneau doré pulse sur le médaillon du piège qui sonne et suit l'aiguille ; les 12 noms de pièges en pastilles discrètes, plus collés aux bords ni mangés par les flammes ; éclair de la foudre bien visible ; boules de feu au-dessus du mur de feu ; parachutes qui ne tombent plus sur les étiquettes ; toujours moins de 80 animations. |

diff --git a/CLAUDE.md b/CLAUDE.md
@@ -42,7 +42,7 @@
 - `moi.js` (onglet Moi : rappels, assurance vie, prêt, marchés, séance/semaine), `moteur.js` (calculs),
   `piste.js` (moteur 3D WebGL maison + carte 2D des circuits), `css/versus.css`.
 - **Version** : `version.js` (`app` + `date`) — seul endroit à changer à chaque mise en ligne (sert aussi au cache
-  hors connexion `sw.js`). Version actuelle : **16.41**.
+  hors connexion `sw.js`). Version actuelle : **16.42**.
 - Le calcul des points est partagé avec le serveur : `outils/extraire-podium.js` (dans app_scripts) régénère
   `versus/PodiumCommun.js` à partir de l'appli. Un changement de règle de score ⇒ remettre le serveur en ligne.
 
